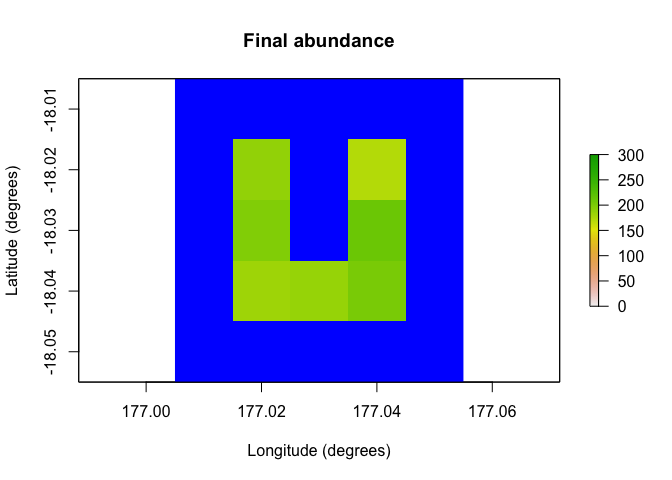
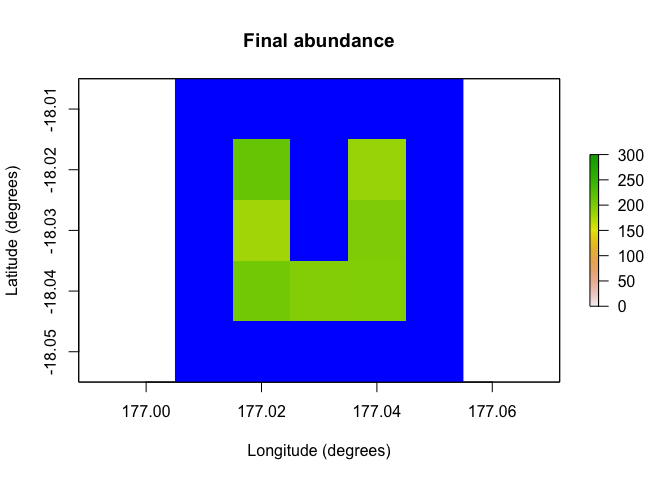
Updated README.md

Changed region(s): [[0.3438, 0.2812, 0.4375, 0.6875], [0.5, 0.2812, 0.625, 0.4375]]

diff --git a/README.md b/README.md
@@ -10,7 +10,8 @@
 [![Paper_doi](https://img.shields.io/badge/doi-10.1111/2041--210X.13720-orange.svg)](https://doi.org/10.1111/2041-210X.13720)
 [![Codecov test
 coverage](https://codecov.io/gh/GlobalEcologyLab/poems/branch/main/graph/badge.svg)](https://app.codecov.io/gh/GlobalEcologyLab/poems?branch=main)
-[![R-CMD-check](https://github.com/GlobalEcologyLab/poems/actions/workflows/R-CMD-check.yaml/badge.svg)](https://github.com/GlobalEcologyLab/poems/actions/workflows/R-CMD-check.yaml)
+[![Last
+commit](https://img.shields.io/github/last-commit/GlobalEcologyLab/poems.svg)](https://github.com/GlobalEcologyLab/poems/commits/main)
 <!-- badges: end -->
 
 The poems package provides a framework of interoperable *R6* (Chang,
@@ -101,47 +102,47 @@ results <- population_simulator(pop_model)
 results # examine
 #> $all
 #> $all$abundance
-#> [1] 1010 1181 1236 1359 1335
+#> [1]  948 1071 1216 1328 1375
 #> 
 #> $all$abundance_stages
 #> $all$abundance_stages[[1]]
-#> [1] 589 743 699 858 780
+#> [1] 552 639 722 796 803
 #> 
 #> $all$abundance_stages[[2]]
-#> [1] 421 438 537 501 555
+#> [1] 396 432 494 532 572
 #> 
 #> 
 #> 
 #> $abundance
 #>      [,1] [,2] [,3] [,4] [,5]
-#> [1,]   54  101  155  192  188
-#> [2,]  106  158  175  209  171
-#> [3,]  127  127  157  173  197
-#> [4,]  172  202  185  212  210
-#> [5,]  190  222  200  177  182
-#> [6,]  171  177  186  205  185
-#> [7,]  190  194  178  191  202
+#> [1,]   50   81  142  191  214
+#> [2,]   94  148  155  191  186
+#> [3,]  138  158  153  167  179
+#> [4,]  146  145  187  207  198
+#> [5,]  157  176  187  180  205
+#> [6,]  184  183  210  198  196
+#> [7,]  179  180  182  194  197
 #> 
 #> $abundance_stages
 #> $abundance_stages[[1]]
 #>      [,1] [,2] [,3] [,4] [,5]
-#> [1,]   34   55   87  128  114
-#> [2,]   59  100   91  137  103
-#> [3,]   82   74   93  105  119
-#> [4,]   83  146   85  140  118
-#> [5,]  113  147  116  106  116
-#> [6,]  107   99  110  124   99
-#> [7,]  111  122  117  118  111
+#> [1,]   36   45   91  110  132
+#> [2,]   48   95   83  120   97
+#> [3,]   79  100   86   91  118
+#> [4,]   83   83  101  132  103
+#> [5,]   91  102  119  108  125
+#> [6,]  107  105  129  123  109
+#> [7,]  108  109  113  112  119
 #> 
 #> $abundance_stages[[2]]
 #>      [,1] [,2] [,3] [,4] [,5]
-#> [1,]   20   46   68   64   74
-#> [2,]   47   58   84   72   68
-#> [3,]   45   53   64   68   78
-#> [4,]   89   56  100   72   92
-#> [5,]   77   75   84   71   66
-#> [6,]   64   78   76   81   86
-#> [7,]   79   72   61   73   91
+#> [1,]   14   36   51   81   82
+#> [2,]   46   53   72   71   89
+#> [3,]   59   58   67   76   61
+#> [4,]   63   62   86   75   95
+#> [5,]   66   74   68   72   80
+#> [6,]   77   78   81   75   87
+#> [7,]   71   71   69   82   78
 raster::plot(region$raster_from_values(results$abundance[,5]),
              main = "Final abundance", xlab = "Longitude (degrees)", 
              ylab = "Latitude (degrees)", zlim = c(0, 300), colNA = "blue")
